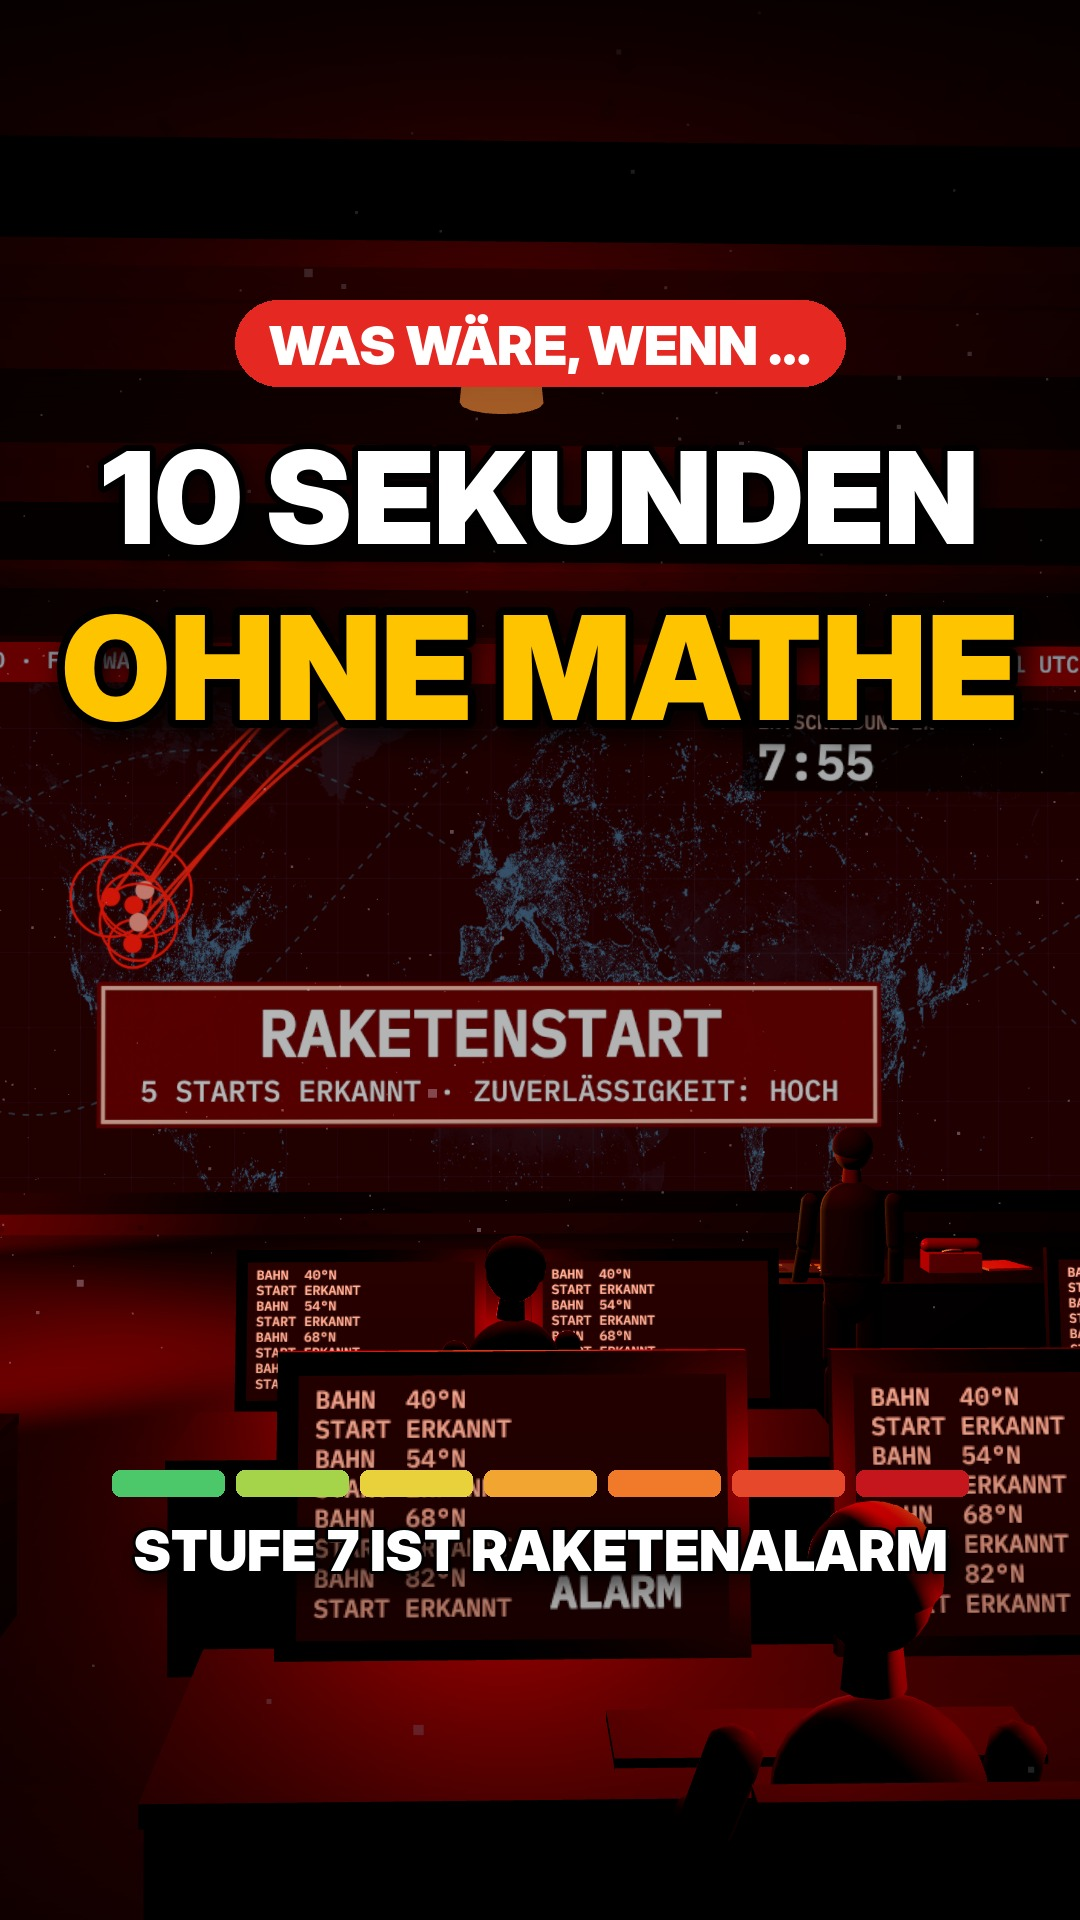
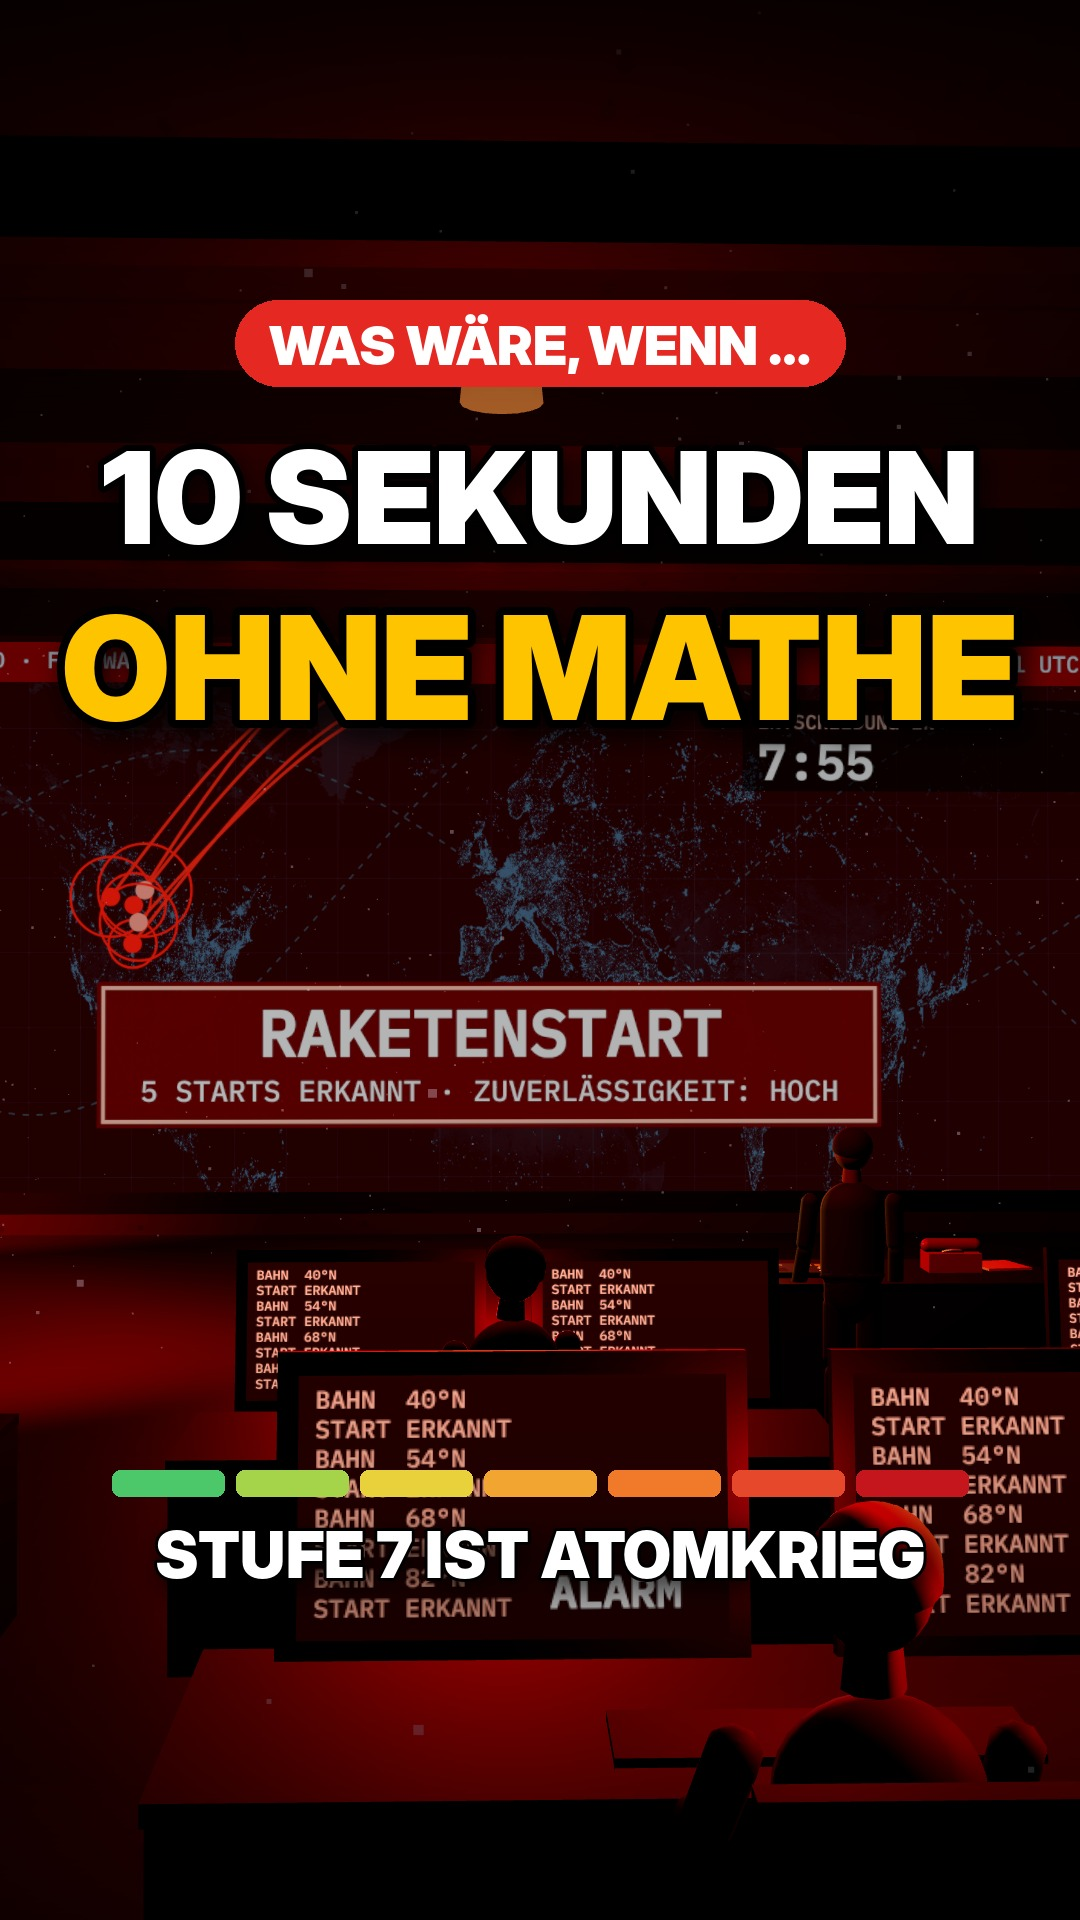
Folge 3 Mathe: Geräusche für Zug, Satelliten und Raketen, Beschreibung und Thumbnail angepasst
Claude-Session: https://claude.ai/code/session_01McNdgaYUbBinJQiiyVyJrz

Changed region(s): [[0.1222, 0.7812, 0.8861, 0.8438]]

diff --git a/dieweltohne/folge03_mathe/mix.py b/dieweltohne/folge03_mathe/mix.py
@@ -163,17 +163,17 @@ add('fsd_crowd_gasp', 28.5, 2.0, db=-14, fout=0.6)
 amb('fsd_wind', 31, 38.05, -20, off=1.0)
 amb('fsd_birdsong', 31, 33.5, -22)
 amb('fsd_train_rumble', 31, TRAIN_HIT + 0.05, -10)
-add('fsd_train_pass', TRAIN_HIT - 3.5, 3.5, db=-6, fin=2.5, fout=0.03)
+add('fsd_train_pass', TRAIN_HIT - 3.5, 3.5, db=-6, off=1.5, fin=2.0, fout=0.03)
 add('fsd_train_horn', 32.6, 2.2, db=-6, fout=0.4, pan=-0.4)
 add('fsd_train_horn', 33.6, 2.2, db=-8, fout=0.4, pan=0.4)
-add('fsd_train_brake', 34.0, TRAIN_HIT - 34.0 + 0.1, db=-4, fin=0.1, fout=0.05)
+add('fsd_train_brake', 34.0, TRAIN_HIT - 34.0 + 0.1, db=-4, off=4.0, fin=0.1, fout=0.05)
 add('fsd_metal_crash', TRAIN_HIT - 0.02, 3.0, db=4, peak_win=0.2, fout=1.0)
 add('fsd_metal_crash2', TRAIN_HIT + 0.1, 3.0, db=0, peak_win=0.2, fout=1.0, pan=0.3)
 add('fsd_car_crash', TRAIN_HIT + 0.05, 2.3, db=-2, off=3.15, fout=0.8, pan=-0.3)
 add('fsd_glass_break', TRAIN_HIT + 0.05, 2.5, db=-6, fout=0.8)
 add('fsd_impact_boom2', TRAIN_HIT, 2.5, db=-6, fout=1.5)
 add('fsd_electric_arc', TRAIN_HIT + 0.3, 0.6, db=-8, off=0.6, fout=0.3)     # Oberleitung reißt
-add('fsd_train_brake', TRAIN_HIT + 0.2, 2.0, db=-8, fout=0.8)
+add('fsd_train_brake', TRAIN_HIT + 0.2, 2.0, db=-10, off=6.0, fout=0.8)
 
 # ---------------- Stufe 5: Cockpit ----------------
 amb('fsd_jet_cabin', 38, 47.0, -8)
@@ -226,10 +226,35 @@ add('fsd_rocket_ignite', IGNITION - 0.02, 2.5, db=2, peak_win=0.3, fout=1.0)
 add('fsd_rocket_roar', IGNITION + 0.2, 84.0 - IGNITION - 0.2, db=0, fin=1.0, fout=0.05)
 add('fsd_jet_roar', LIFTOFF - 0.3, 84.0 - LIFTOFF + 0.3, db=-6, fin=0.4, fout=0.05)
 add('fsd_impact_boom', LIFTOFF - 0.02, 4.0, db=-4, fout=2.0)
-add('fsd_thunder_far', 80.5, 3.5, db=-10, fin=0.3, fout=1.0, pan=0.5)              # zweite Rakete in der Ferne
+add('fsd_thunder_far', 80.5, 3.5, db=-10, off=2.5, fin=0.3, fout=1.0, pan=0.5)              # zweite Rakete in der Ferne
 
 # ---------------- Finale ----------------
 amb('fsd_wind', 84.0, 90.0, -18, off=1.0)
-for k in range(8): add('fsd_thunder_far', FLASH0 + k * 0.55, 2.5, db=-8 - k * 0.5, fin=0.05, fout=1.2, pan=((k % 3) - 1) * 0.5)
+for k in range(8): add('fsd_thunder_far' + ('2' if k % 2 else ''), FLASH0 + k * 0.55, 2.5, db=-8 - k * 0.5, fin=0.05, fout=1.2, pan=((k % 3) - 1) * 0.5)
 add('fsd_impact_boom', FLASH0, 5.0, db=-6, fout=3.0)
 add('fsd_sub_rumble', 85.5, 4.45, db=-6, off=1.0, fin=0.5, fout=2.0)
+
+# ---------------- Ausgabe ----------------
+peak = np.abs(mix).max()
+if peak > 0.98: mix *= 0.98 / peak
+tmp = os.path.join(HERE, 'mix_roh.wav')
+subprocess.run(['ffmpeg', '-v', 'error', '-y', '-f', 'f32le', '-ar', str(SR), '-ac', '2', '-i', '-', tmp], input=mix.tobytes(), check=True)
+out = os.path.join(HERE, 'mix.wav')
+# TikTok-Lautheit: ca. -14 LUFS, Spitzen begrenzt
+subprocess.run(['ffmpeg', '-v', 'error', '-y', '-i', tmp, '-af', 'acompressor=threshold=-30dB:ratio=3:attack=15:release=400:makeup=6,loudnorm=I=-14.5:TP=-2:LRA=11,alimiter=limit=0.79:attack=2:release=60', '-ar', str(SR), '-c:a', 'pcm_s16le', out], check=True)
+os.remove(tmp)
+print('mix.wav fertig, Ticks:', len(ticks))
+
+if '--mux' in sys.argv:
+    vid = os.path.join(HERE, 'video_stumm.mp4'); fin = os.path.join(HERE, 'folge03_mathe.mp4')
+    subprocess.run(['ffmpeg', '-v', 'error', '-y', '-i', vid, '-i', out, '-map', '0:v', '-map', '1:a', '-c:v', 'copy', '-c:a', 'aac', '-b:a', '192k', '-t', '90', '-movflags', '+faststart', fin], check=True)
+    print('fertig:', fin)
+
+# Quellenangaben für die Videobeschreibung
+cred = []
+for f in sorted(os.listdir(RAW)):
+    if f.endswith('.json') and f[:-5] in _cache and _cache[f[:-5]] is not None:
+        m = json.load(open(os.path.join(RAW, f)))
+        src = 'Freesound, über den Datensatz FSD50K' if m['artist'].startswith('Freesound') else 'Wikimedia Commons'
+        cred.append(f"- {m['title'][5:]} – {m['license']} ({src})")
+open(os.path.join(HERE, 'quellen_geraeusche.md'), 'w').write('# Geräusche (echte Aufnahmen)\n\nAlle Geräusche sind echte Aufnahmen unter CC0 (frei nutzbar, keine Namensnennung nötig).\n\n' + '\n'.join(cred) + '\n\nBilder: NASA Black Marble (Erde bei Nacht) und NASA Blue Marble (Erde bei Tag), gemeinfrei, über Wikimedia Commons\n')

diff --git a/dieweltohne/folge03_mathe/thumbnail.py b/dieweltohne/folge03_mathe/thumbnail.py
@@ -43,6 +43,6 @@ bw, gap, y0 = 112, 12, 1470
 x0 = (W - (7 * bw + 6 * gap)) / 2
 for i, c in enumerate(cols):
     draw.rounded_rectangle([x0 + i * (bw + gap), y0, x0 + i * (bw + gap) + bw, y0 + 26], 8, fill=c)
-text(W / 2, 1516, 'STUFE 7 IST RAKETENALARM', fit('STUFE 7 IST RAKETENALARM', F + 'InterDisplay-Black.otf', 860, 64), 'white', 3)
+text(W / 2, 1516, 'STUFE 7 IST ATOMKRIEG', fit('STUFE 7 IST ATOMKRIEG', F + 'InterDisplay-Black.otf', 860, 64), 'white', 3)
 img.save('thumbnail.jpg', quality=92)
 img.crop((0, 240, W, 1680)).resize((540, 720)).save(sys.argv[2] if len(sys.argv) > 2 else '/dev/null', 'JPEG') if len(sys.argv) > 2 else None

diff --git a/dieweltohne/folge03_mathe/quellen_geraeusche.md b/dieweltohne/folge03_mathe/quellen_geraeusche.md
@@ -5,9 +5,9 @@ Alle Geräusche sind echte Aufnahmen unter CC0 (frei nutzbar, keine Namensnennun
 - FSD50K 262278 (freesound.org/s/262278) – CC0 (Freesound, über den Datensatz FSD50K)
 - FSD50K 407025 (freesound.org/s/407025) – CC0 (Freesound, über den Datensatz FSD50K)
 - FSD50K 15813 (freesound.org/s/15813) – CC0 (Freesound, über den Datensatz FSD50K)
+- FSD50K 148155 (freesound.org/s/148155) – CC0 (Freesound, über den Datensatz FSD50K)
 - FSD50K 395734 (freesound.org/s/395734) – CC0 (Freesound, über den Datensatz FSD50K)
 - FSD50K 367434 (freesound.org/s/367434) – CC0 (Freesound, über den Datensatz FSD50K)
-- FSD50K 114050 (freesound.org/s/114050) – CC0 (Freesound, über den Datensatz FSD50K)
 - FSD50K 125520 (freesound.org/s/125520) – CC0 (Freesound, über den Datensatz FSD50K)
 - FSD50K 390858 (freesound.org/s/390858) – CC0 (Freesound, über den Datensatz FSD50K)
 - FSD50K 233558 (freesound.org/s/233558) – CC0 (Freesound, über den Datensatz FSD50K)
@@ -18,13 +18,14 @@ Alle Geräusche sind echte Aufnahmen unter CC0 (frei nutzbar, keine Namensnennun
 - FSD50K 219246 (freesound.org/s/219246) – CC0 (Freesound, über den Datensatz FSD50K)
 - FSD50K 333412 (freesound.org/s/333412) – CC0 (Freesound, über den Datensatz FSD50K)
 - FSD50K 340934 (freesound.org/s/340934) – CC0 (Freesound, über den Datensatz FSD50K)
+- FSD50K 173606 (freesound.org/s/173606) – CC0 (Freesound, über den Datensatz FSD50K)
 - FSD50K 108954 (freesound.org/s/108954) – CC0 (Freesound, über den Datensatz FSD50K)
 - FSD50K 326986 (freesound.org/s/326986) – CC0 (Freesound, über den Datensatz FSD50K)
 - FSD50K 170505 (freesound.org/s/170505) – CC0 (Freesound, über den Datensatz FSD50K)
 - FSD50K 356312 (freesound.org/s/356312) – CC0 (Freesound, über den Datensatz FSD50K)
 - FSD50K 188828 (freesound.org/s/188828) – CC0 (Freesound, über den Datensatz FSD50K)
 - FSD50K 386384 (freesound.org/s/386384) – CC0 (Freesound, über den Datensatz FSD50K)
-- FSD50K 319184 (freesound.org/s/319184) – CC0 (Freesound, über den Datensatz FSD50K)
+- FSD50K 378174 (freesound.org/s/378174) – CC0 (Freesound, über den Datensatz FSD50K)
 - FSD50K 132861 (freesound.org/s/132861) – CC0 (Freesound, über den Datensatz FSD50K)
 - FSD50K 418199 (freesound.org/s/418199) – CC0 (Freesound, über den Datensatz FSD50K)
 - FSD50K 251958 (freesound.org/s/251958) – CC0 (Freesound, über den Datensatz FSD50K)
@@ -34,18 +35,26 @@ Alle Geräusche sind echte Aufnahmen unter CC0 (frei nutzbar, keine Namensnennun
 - FSD50K 380400 (freesound.org/s/380400) – CC0 (Freesound, über den Datensatz FSD50K)
 - FSD50K 323238 (freesound.org/s/323238) – CC0 (Freesound, über den Datensatz FSD50K)
 - FSD50K 369839 (freesound.org/s/369839) – CC0 (Freesound, über den Datensatz FSD50K)
+- FSD50K 222763 (freesound.org/s/222763) – CC0 (Freesound, über den Datensatz FSD50K)
+- FSD50K 233292 (freesound.org/s/233292) – CC0 (Freesound, über den Datensatz FSD50K)
 - FSD50K 232903 (freesound.org/s/232903) – CC0 (Freesound, über den Datensatz FSD50K)
 - FSD50K 77392 (freesound.org/s/77392) – CC0 (Freesound, über den Datensatz FSD50K)
 - FSD50K 389604 (freesound.org/s/389604) – CC0 (Freesound, über den Datensatz FSD50K)
-- FSD50K 146233 (freesound.org/s/146233) – CC0 (Freesound, über den Datensatz FSD50K)
 - FSD50K 424389 (freesound.org/s/424389) – CC0 (Freesound, über den Datensatz FSD50K)
 - FSD50K 188224 (freesound.org/s/188224) – CC0 (Freesound, über den Datensatz FSD50K)
 - FSD50K 209578 (freesound.org/s/209578) – CC0 (Freesound, über den Datensatz FSD50K)
-- FSD50K 25312 (freesound.org/s/25312) – CC0 (Freesound, über den Datensatz FSD50K)
+- FSD50K 182797 (freesound.org/s/182797) – CC0 (Freesound, über den Datensatz FSD50K)
+- FSD50K 187708 (freesound.org/s/187708) – CC0 (Freesound, über den Datensatz FSD50K)
 - FSD50K 156311 (freesound.org/s/156311) – CC0 (Freesound, über den Datensatz FSD50K)
 - FSD50K 434155 (freesound.org/s/434155) – CC0 (Freesound, über den Datensatz FSD50K)
-- FSD50K 131385 (freesound.org/s/131385) – CC0 (Freesound, über den Datensatz FSD50K)
+- FSD50K 189794 (freesound.org/s/189794) – CC0 (Freesound, über den Datensatz FSD50K)
+- FSD50K 234736 (freesound.org/s/234736) – CC0 (Freesound, über den Datensatz FSD50K)
+- FSD50K 417657 (freesound.org/s/417657) – CC0 (Freesound, über den Datensatz FSD50K)
+- FSD50K 91559 (freesound.org/s/91559) – CC0 (Freesound, über den Datensatz FSD50K)
+- FSD50K 25888 (freesound.org/s/25888) – CC0 (Freesound, über den Datensatz FSD50K)
+- FSD50K 396983 (freesound.org/s/396983) – CC0 (Freesound, über den Datensatz FSD50K)
 - FSD50K 434430 (freesound.org/s/434430) – CC0 (Freesound, über den Datensatz FSD50K)
+- FSD50K 420312 (freesound.org/s/420312) – CC0 (Freesound, über den Datensatz FSD50K)
 - FSD50K 382591 (freesound.org/s/382591) – CC0 (Freesound, über den Datensatz FSD50K)
 
-Bild: NASA Black Marble (Erde bei Nacht), gemeinfrei, über Wikimedia Commons
+Bilder: NASA Black Marble (Erde bei Nacht) und NASA Blue Marble (Erde bei Tag), gemeinfrei, über Wikimedia Commons

diff --git a/dieweltohne/folge03_mathe/beschreibung.md b/dieweltohne/folge03_mathe/beschreibung.md
@@ -2,7 +2,7 @@
 
 ## Beschreibung (zum Kopieren)
 
-Keine Mathe mehr – die ganze Klasse jubelt 🎉 Doch jeder Computer der Welt rechnet mit Mathe. Nach 10 Sekunden meldet ein Bunker: Raketenstart 😳 Bei welcher Stufe hättest du aufgehört zu jubeln – 1 bis 7? 👇
+Keine Mathe mehr – die ganze Klasse jubelt 🎉 Doch jeder Computer der Welt rechnet mit Mathe. 10 Sekunden später: Zugunglück, Absturz, Atomalarm 😳 Bei welcher Stufe hättest du aufgehört zu jubeln – 1 bis 7? 👇
 
 #waswärewenn #dieweltohne #mathe #schule #gedankenexperiment
 
@@ -13,7 +13,7 @@ Achtet mal auf den Kontostand: −2.147.483.648 € ist kein Zufall 🤓 Das ist
 ## Thumbnail
 
 - Datei: `thumbnail.jpg` (1080 × 1920). Beim Hochladen auf „Cover bearbeiten“ tippen, dann „Aus Galerie hinzufügen“.
-- Motiv: Bunker im Rotlicht, Lagebildschirm mit „RAKETENSTART“. Der Kontrast zwischen „ohne Mathe“ (harmlos) und „Raketenalarm“ (Weltuntergang) macht neugierig.
+- Motiv: Bunker im Rotlicht, Lagebildschirm mit „RAKETENSTART“. Unten steht „STUFE 7 IST ATOMKRIEG“. Der Kontrast zwischen „ohne Mathe“ (harmlos) und „Raketenalarm“ (Weltuntergang) macht neugierig.
 - Neu erzeugen: `ONLY=bunker node src/still.js <ordner> 1830`, danach `python3 thumbnail.py <ordner>/clean_1830.png`.
 
 ## Warum so
@@ -28,8 +28,11 @@ Achtet mal auf den Kontostand: −2.147.483.648 € ist kein Zufall 🤓 Das ist
 - Jeder Prozessor rechnet: Ampelsteuerungen, Handys, Bankensysteme, Börsenhandel, Flugsteuerung (Fly-by-Wire) und Kraftwerksregelung arbeiten mit Computern.
 - 26. September 1983: Das sowjetische Frühwarnsystem Oko meldete den Start von US-Atomraketen, zuletzt von fünf. Der diensthabende Offizier Stanislaw Petrow hielt es für einen Fehlalarm und meldete eine Fehlfunktion statt eines Angriffs. Ursache war eine Fehldeutung von Sonnenlicht, das an Wolken gespiegelt wurde.
 - Bei einem gemeldeten Raketenangriff bleiben für die Entscheidung über einen Gegenschlag nach gängigen Schätzungen nur wenige Minuten.
+- Stellwerke sichern Zugfahrten per Computer, Signale zeigen nur Grün, wenn der Abschnitt frei ist. Im Video fällt diese Sicherung aus.
+- Es gibt über 10.000 aktive Satelliten. 2009 kollidierten tatsächlich zwei Satelliten (Iridium 33 und Kosmos 2251) und erzeugten Tausende Trümmerteile.
+- Interkontinentalraketen brauchen rund 30 Minuten bis ins Ziel. Gestartete Raketen lassen sich nicht zurückrufen.
 - −2.147.483.648 ist der kleinste Wert einer vorzeichenbehafteten 32-Bit-Ganzzahl.
-- Zugespitzt ist die Grundidee selbst: Mathe kann nicht „verschwinden“. Das Video ist ein Gedankenexperiment darüber, wie sehr unsere Welt auf Rechnungen beruht.
+- Zugespitzt ist die Grundidee selbst: Mathe kann nicht „verschwinden“. Das Video ist ein Gedankenexperiment darüber, wie sehr unsere Welt auf Rechnungen beruht. Der Gegenschlag am Ende ist bewusst das Worst-Case-Szenario.
 
 ## Hinweise
 
